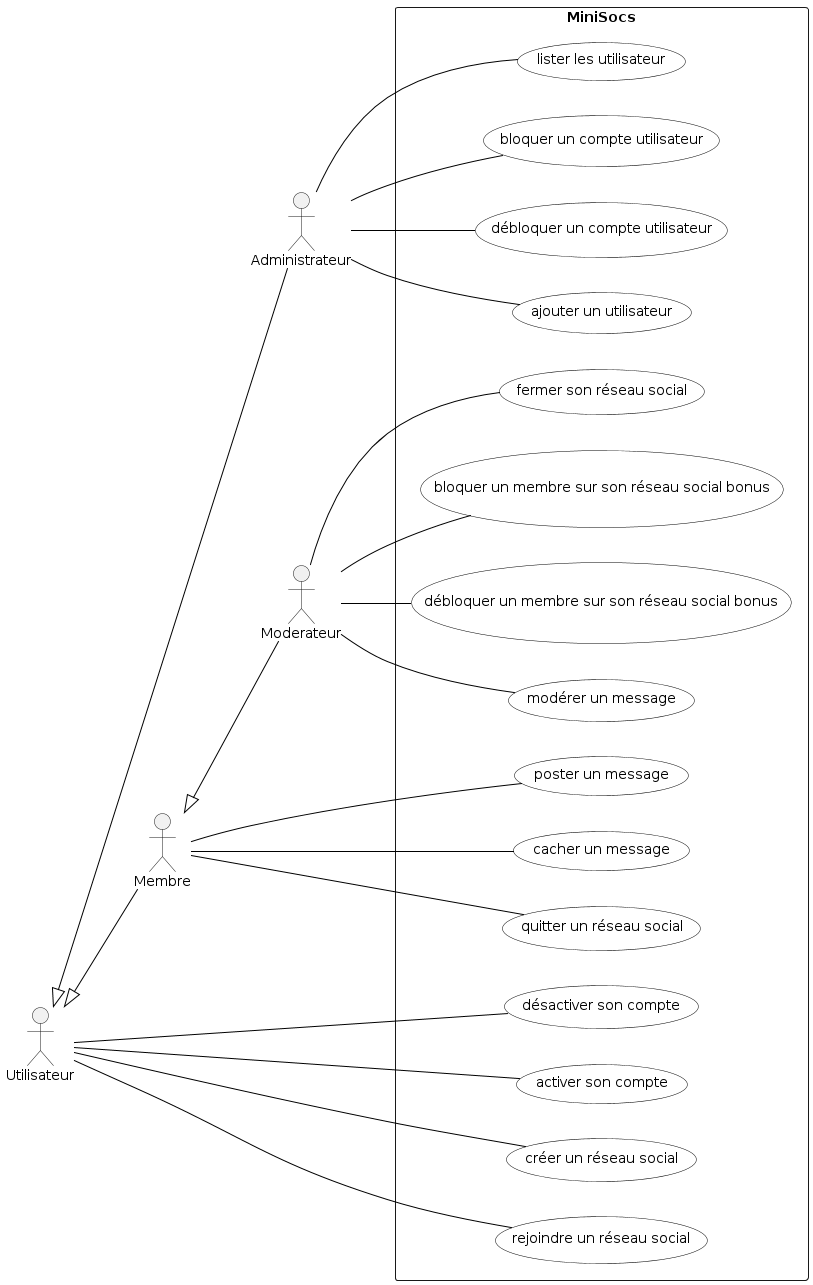
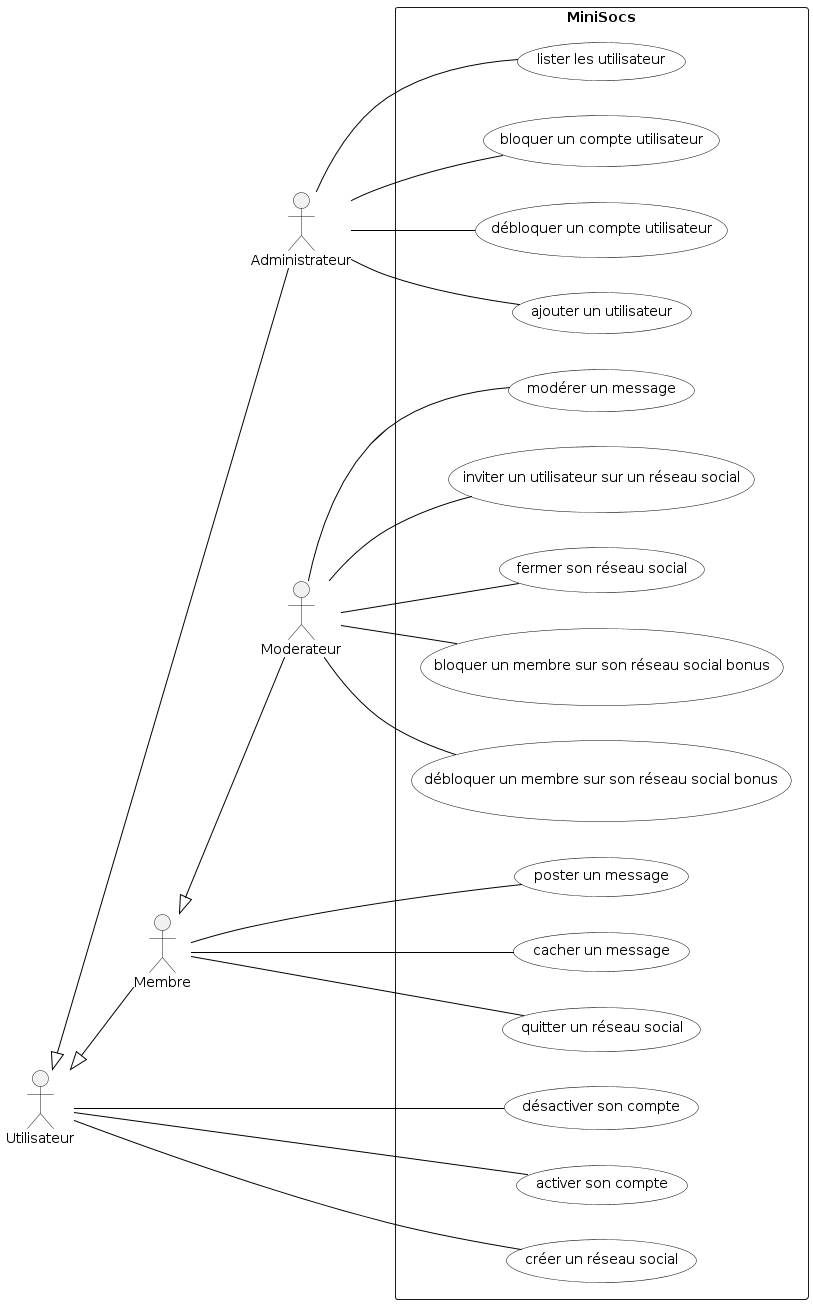
my changes

diff --git a/readme.md b/readme.md
@@ -167,7 +167,7 @@ NB : l'opération est idempotente.
 - postcondition : \
 ∧ le message est modéré (caché, supprimé, ou marqué comme inapproprié)
 
-#### Inviter un utilisateur à un réseau social (HAUTE)
+#### Inviter un utilisateur sur un réseau social (HAUTE)
 - précondition : \
 ∧ pseudo de l'exécuteur bien formé (non null ∧ non vide) \
 ∧ pseudo de l'exécuteur existe \
@@ -358,24 +358,7 @@ conditions.
 |                                                               |   |   |   |   |   |   |   |
 | nombre de tests dans le jeu de tests                          | 2 | 1 | 1 | 1 | 2 | 1 | 1 |
 
-#### Rejoindre un réseau social (HAUTE)
-
-| Décision                                                      | 1 | 2 | 3 | 4 | 5 | 6 | 7 | 8 |
-|---------------------------------------------------------------|---|---|---|---|---|---|---|---|
-| Pseudo de l'exécuteur bien formé  (non null ∧ non vide)       | F | T | T | T | T | T | T | T |
-| Pseudo de l'exécuteur existe                                  |   | F | T | T | T | T | T | T |
-| Le compte n'est pas bloqué                                    |   |   | F | T | T | T | T | T |
-| Le compte est actif                                           |   |   |   | F | T | T | T | T |
-| Le nom du réseau social est bien formé  (non null ∧ non vide) |   |   |   |   | F | T | T | T |
-| Le réseau social existe                                       |   |   |   |   |   | F | T | T |
-| Le compte n'est pas déjà dans le réseau social                |   |   |   |   |   |   | F | T |
-|                                                               |   |   |   |   |   |   |   |   |
-| L'exécuteur est membre du réseau social                       | F | F | F | F | F | F | F | T |
-|                                                               |   |   |   |   |   |   |   |   |
-| nombre de tests dans le jeu de tests                          | 2 | 1 | 1 | 1 | 2 | 1 | 1 | 1 |
-
 ## Tests modérateurs
-
 
 ### Cas d'utilisation du modérateur
 
@@ -392,6 +375,7 @@ conditions.
 |                                                         |   |   |   |   |   |
 | nombre de tests dans le jeu de tests                    | 2 | 1 | 1 | 1 | 1 |
 
+# Inviter un utilisateur sur un réseau social
 
 #### Fermer un réseau social (moyenne)
 

diff --git a/Suivi/readme.md b/Suivi/readme.md
@@ -27,7 +27,7 @@ Pour prendre de bonnes habitudes, merci d'indiquer lorsque vous prenez une remar
 
 [X] DIAGUC-06-Pb-généralisation-spécialisation-acteur
 
-* Le cas d'utilisation "rejoindre un réseau social" n'est pas proposé directement aux utilisateurs. Cela doit passer par le modérateur qui peut ajouter un utilisateur à un réseau social.
+* Le cas d'utilisation "rejoindre un réseau social" n'est pas proposé directement aux utilisateurs. Cela doit passer par le modérateur qui peut ajouter un utilisateur à un réseau
 
 [X] DIAGUC-02-Compréhension-étude-de-cas
 

diff --git a/.#readme.md b/.#readme.md
@@ -1,0 +1,1 @@
+linus@Inspiron.659064:1706631116
